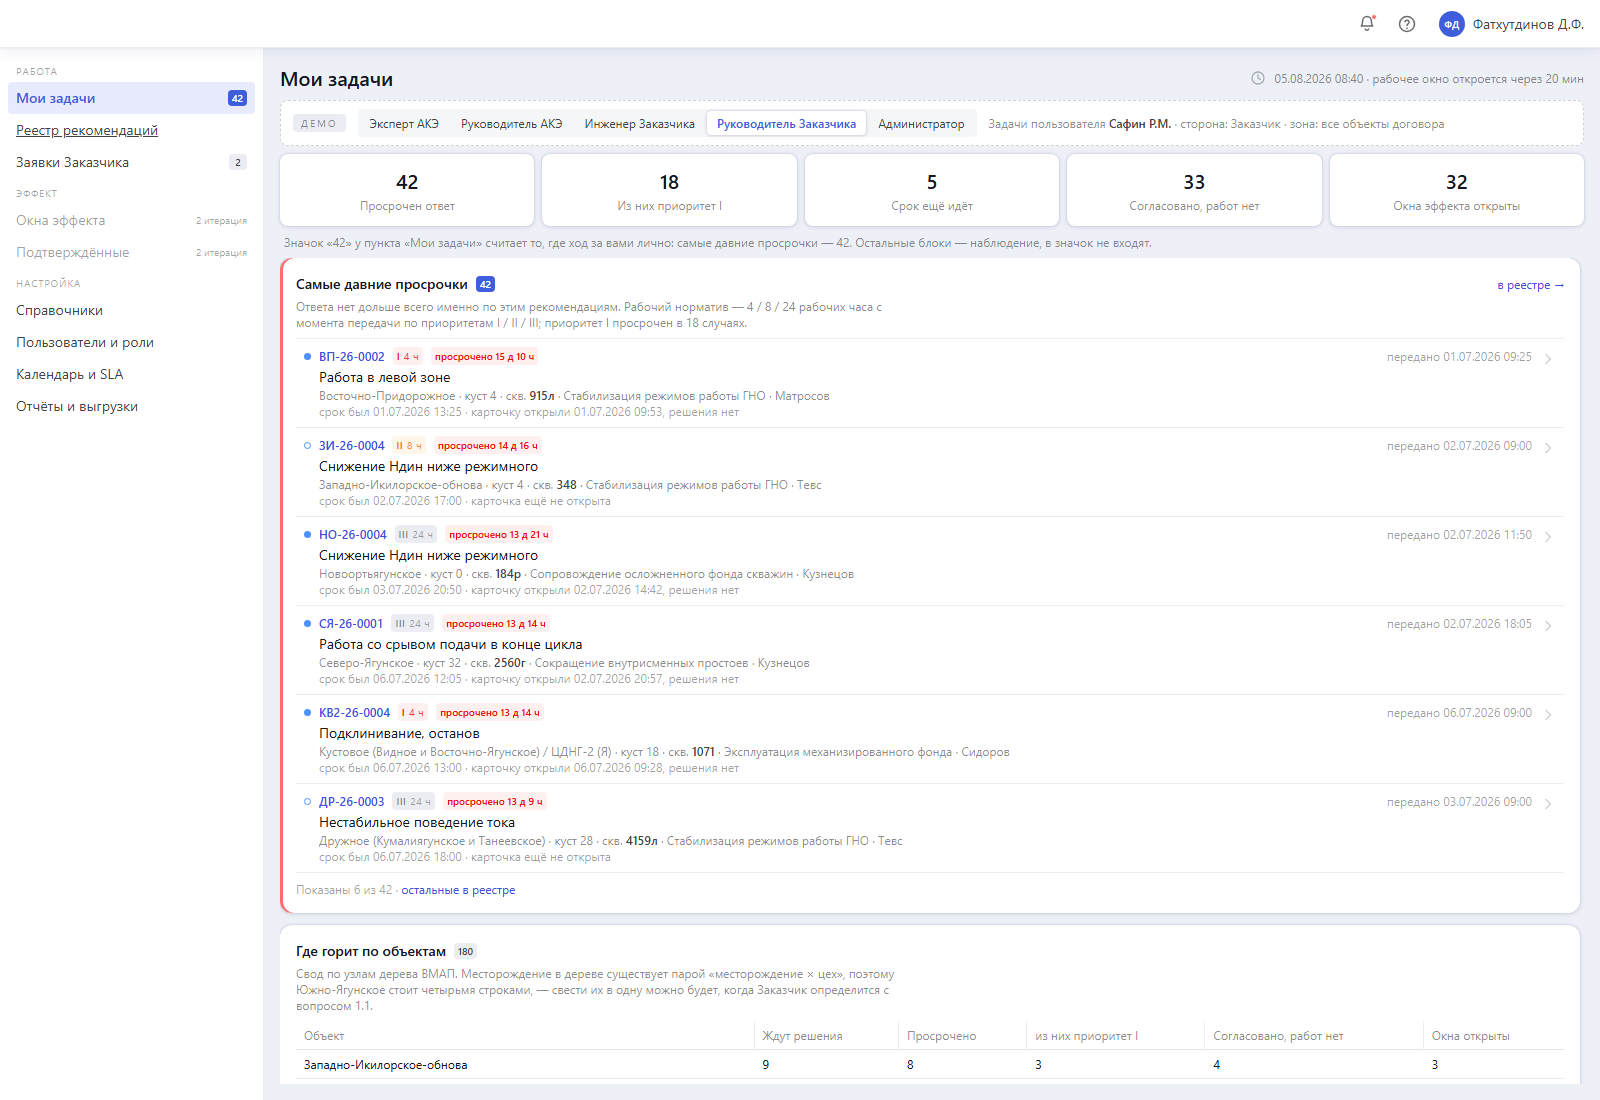
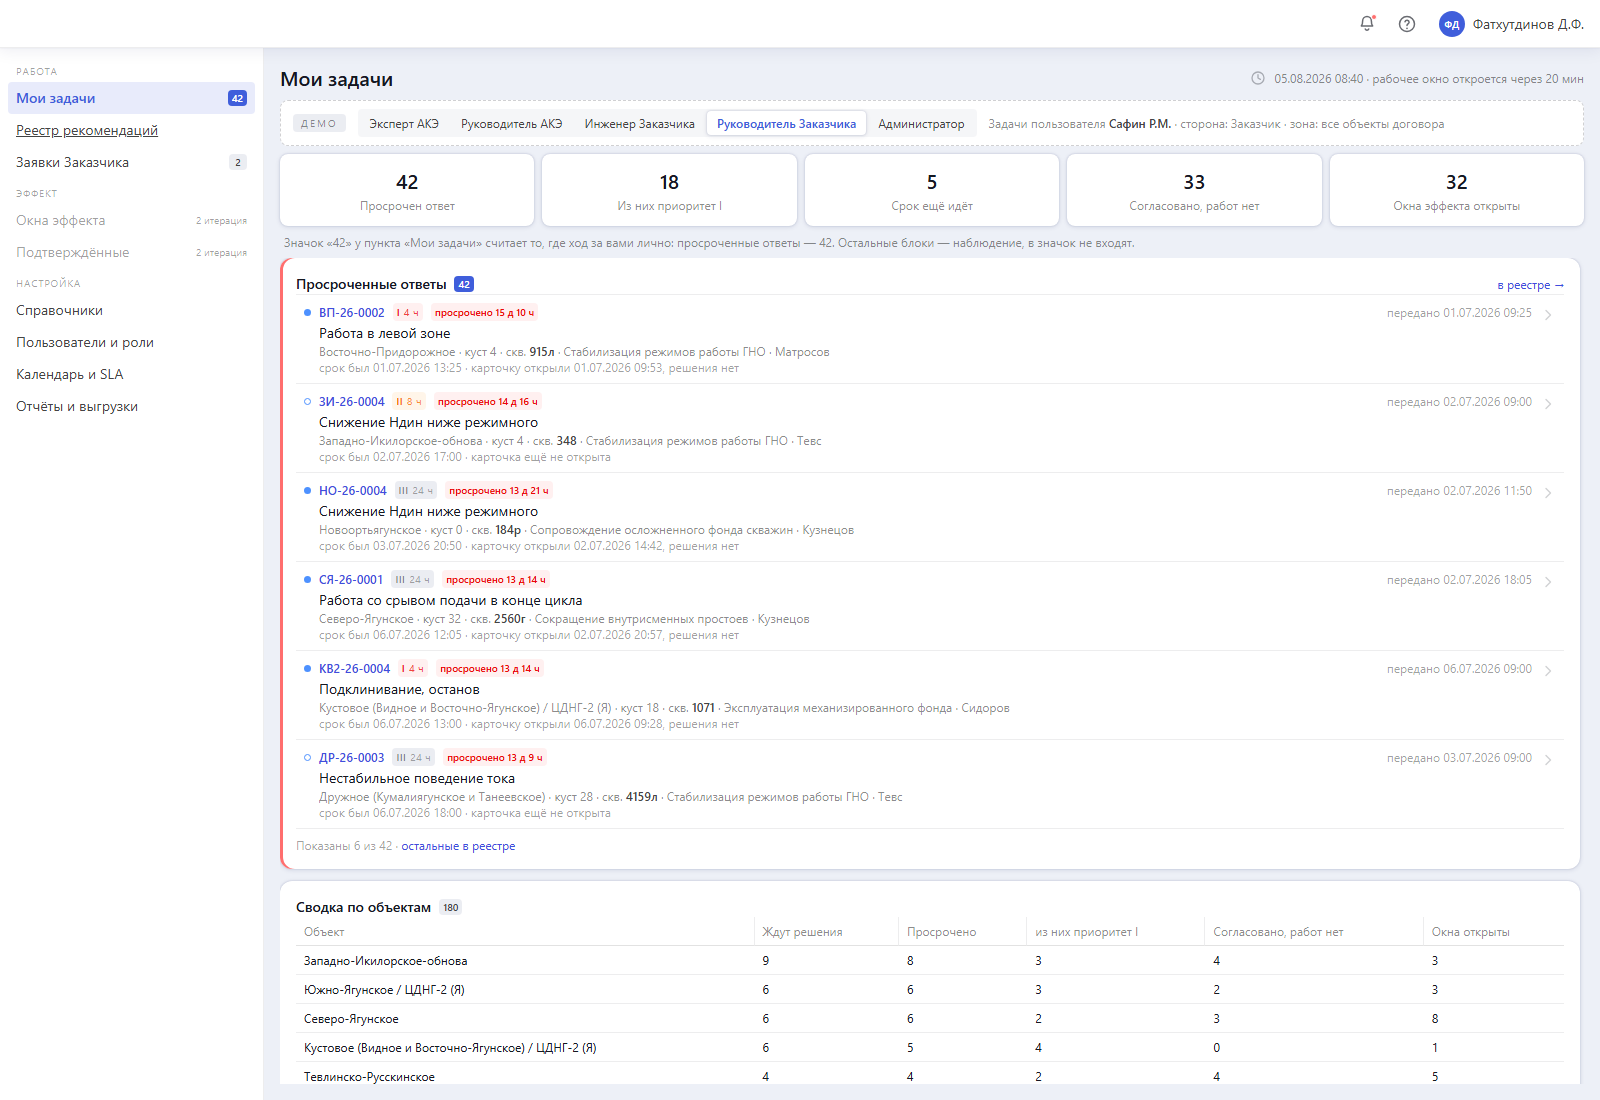
Инбокс руководителя Заказчика: официальные названия блоков без пояснений
«Где горит по объектам» → «Сводка по объектам», в пару к «Сводке по команде»
у руководителя Исполнителя. «Самые давние просрочки» → «Просроченные ответы»:
прежнее звучало разговорно, а блок этот руководитель Заказчика читает первым.
Название взято из терминологии самого модуля — колонка «Контроль ответа» со
значением «просрочено» и плитка «Просрочен ответ». Порядок от самой давней
остался в сортировке.

Пояснения под обоими заголовками убраны, строка why стала необязательной.
Под сводкой по объектам она рассказывала Заказчику про нерешённый вопрос 1.1
и про устройство дерева ВМАП; под просрочками — пересказывала норматив,
который и так стоит пилюлей в каждой строке.

diff --git a/макет/inbox.js b/макет/inbox.js
@@ -222,6 +222,13 @@ function taskRow(rec, block) {
 
 /* ------------------------------ отрисовка блоков ------------------------------ */
 
+/* Пояснение под заголовком необязательно. Там, где название блока говорит само
+   за себя, строка только шумит — а если она объясняет не задачу, а нерешённый
+   вопрос проекта, то и вовсе выносит внутреннюю кухню на экран Заказчику. */
+function whyLine(b) {
+  return b.why ? `<div class="blk__why">${b.why}</div>` : '';
+}
+
 function renderBlock(b) {
   if (b.html) {
     return `<section class="blk blk--${b.tone}" id="${b.id}">
@@ -230,7 +237,7 @@ function renderBlock(b) {
         ${b.count === undefined ? '' : `<span class="badge${b.tone === 'calm' ? '' : ' badge--accent'}">${b.count}</span>`}
         ${b.deep ? `<a class="blk__deep" href="${b.deep}">${b.deepLabel || 'в реестре'} →</a>` : ''}
       </div>
-      <div class="blk__why">${b.why}</div>
+      ${whyLine(b)}
       ${b.html}
     </section>`;
   }
@@ -244,7 +251,7 @@ function renderBlock(b) {
       <span class="badge${b.tone === 'calm' ? '' : ' badge--accent'}">${b.count === undefined ? rows.length : b.count}</span>
       ${b.deep ? `<a class="blk__deep" href="${b.deep}">${b.deepLabel || 'в реестре'} →</a>` : ''}
     </div>
-    <div class="blk__why">${b.why}</div>
+    ${whyLine(b)}
     ${shown.length
       ? `<div class="blk__list">${shown.map((r) => taskRow(r, b)).join('')}</div>`
       : `<div class="blk__empty">${b.empty || 'Пусто — задач нет.'}</div>`}
@@ -562,14 +569,12 @@ function buildCustomerLead() {
   const blocks = [
     {
       id: 'b-overdue', tone: 'hot', act: true, rows: overdue, count: overdue.length,
-      title: 'Самые давние просрочки',
-      /* Норматив 4 / 8 / 24 назван рабочим, а не договорным, сознательно: чисел
-         этих в договоре нет, они пришли из Формы 2 (решение 64). Руководителю
-         Заказчика этот текст читать первым — здесь ошибка в ссылке на договор
-         стоила бы дороже всего. */
-      why: `Ответа нет дольше всего именно по этим рекомендациям. Рабочий норматив —
-            4 / 8 / 24 рабочих часа с момента передачи по приоритетам I / II / III;
-            приоритет I просрочен в ${overdueI.length} случаях.`,
+      /* «Самые давние просрочки» звучало разговорно, а этот блок руководитель
+         Заказчика читает первым. Название взято из терминологии самого модуля:
+         колонка «Контроль ответа» со значением «просрочено», плитка «Просрочен
+         ответ». Порядок — от самой давней — остаётся, но живёт в сортировке,
+         а не в заголовке. */
+      title: 'Просроченные ответы',
       deep: 'index.html?alert=overdue',
       when: (r) => `передано ${fmt(r.sentAt)}`,
       showExecutor: true,
@@ -579,10 +584,10 @@ function buildCustomerLead() {
     },
     {
       id: 'b-fields', tone: 'calm', count: all.length,
-      title: 'Где горит по объектам',
-      why: `Свод по узлам дерева ВМАП. Месторождение в дереве существует парой
-            «месторождение × цех», поэтому Южно-Ягунское стоит четырьмя строками, —
-            свести их в одну можно будет, когда Заказчик определится с вопросом 1.1.`,
+      /* Пояснение убрано: оно рассказывало Заказчику про нерешённый вопрос 1.1
+         и про устройство дерева ВМАП. То, что Южно-Ягунское стоит четырьмя
+         строками, видно из самих строк — там написан цех. */
+      title: 'Сводка по объектам',
       html: sumTable(
         ['Объект', 'Ждут решения', 'Просрочено', 'из них приоритет I',
           'Согласовано, работ нет', 'Окна открыты'],
